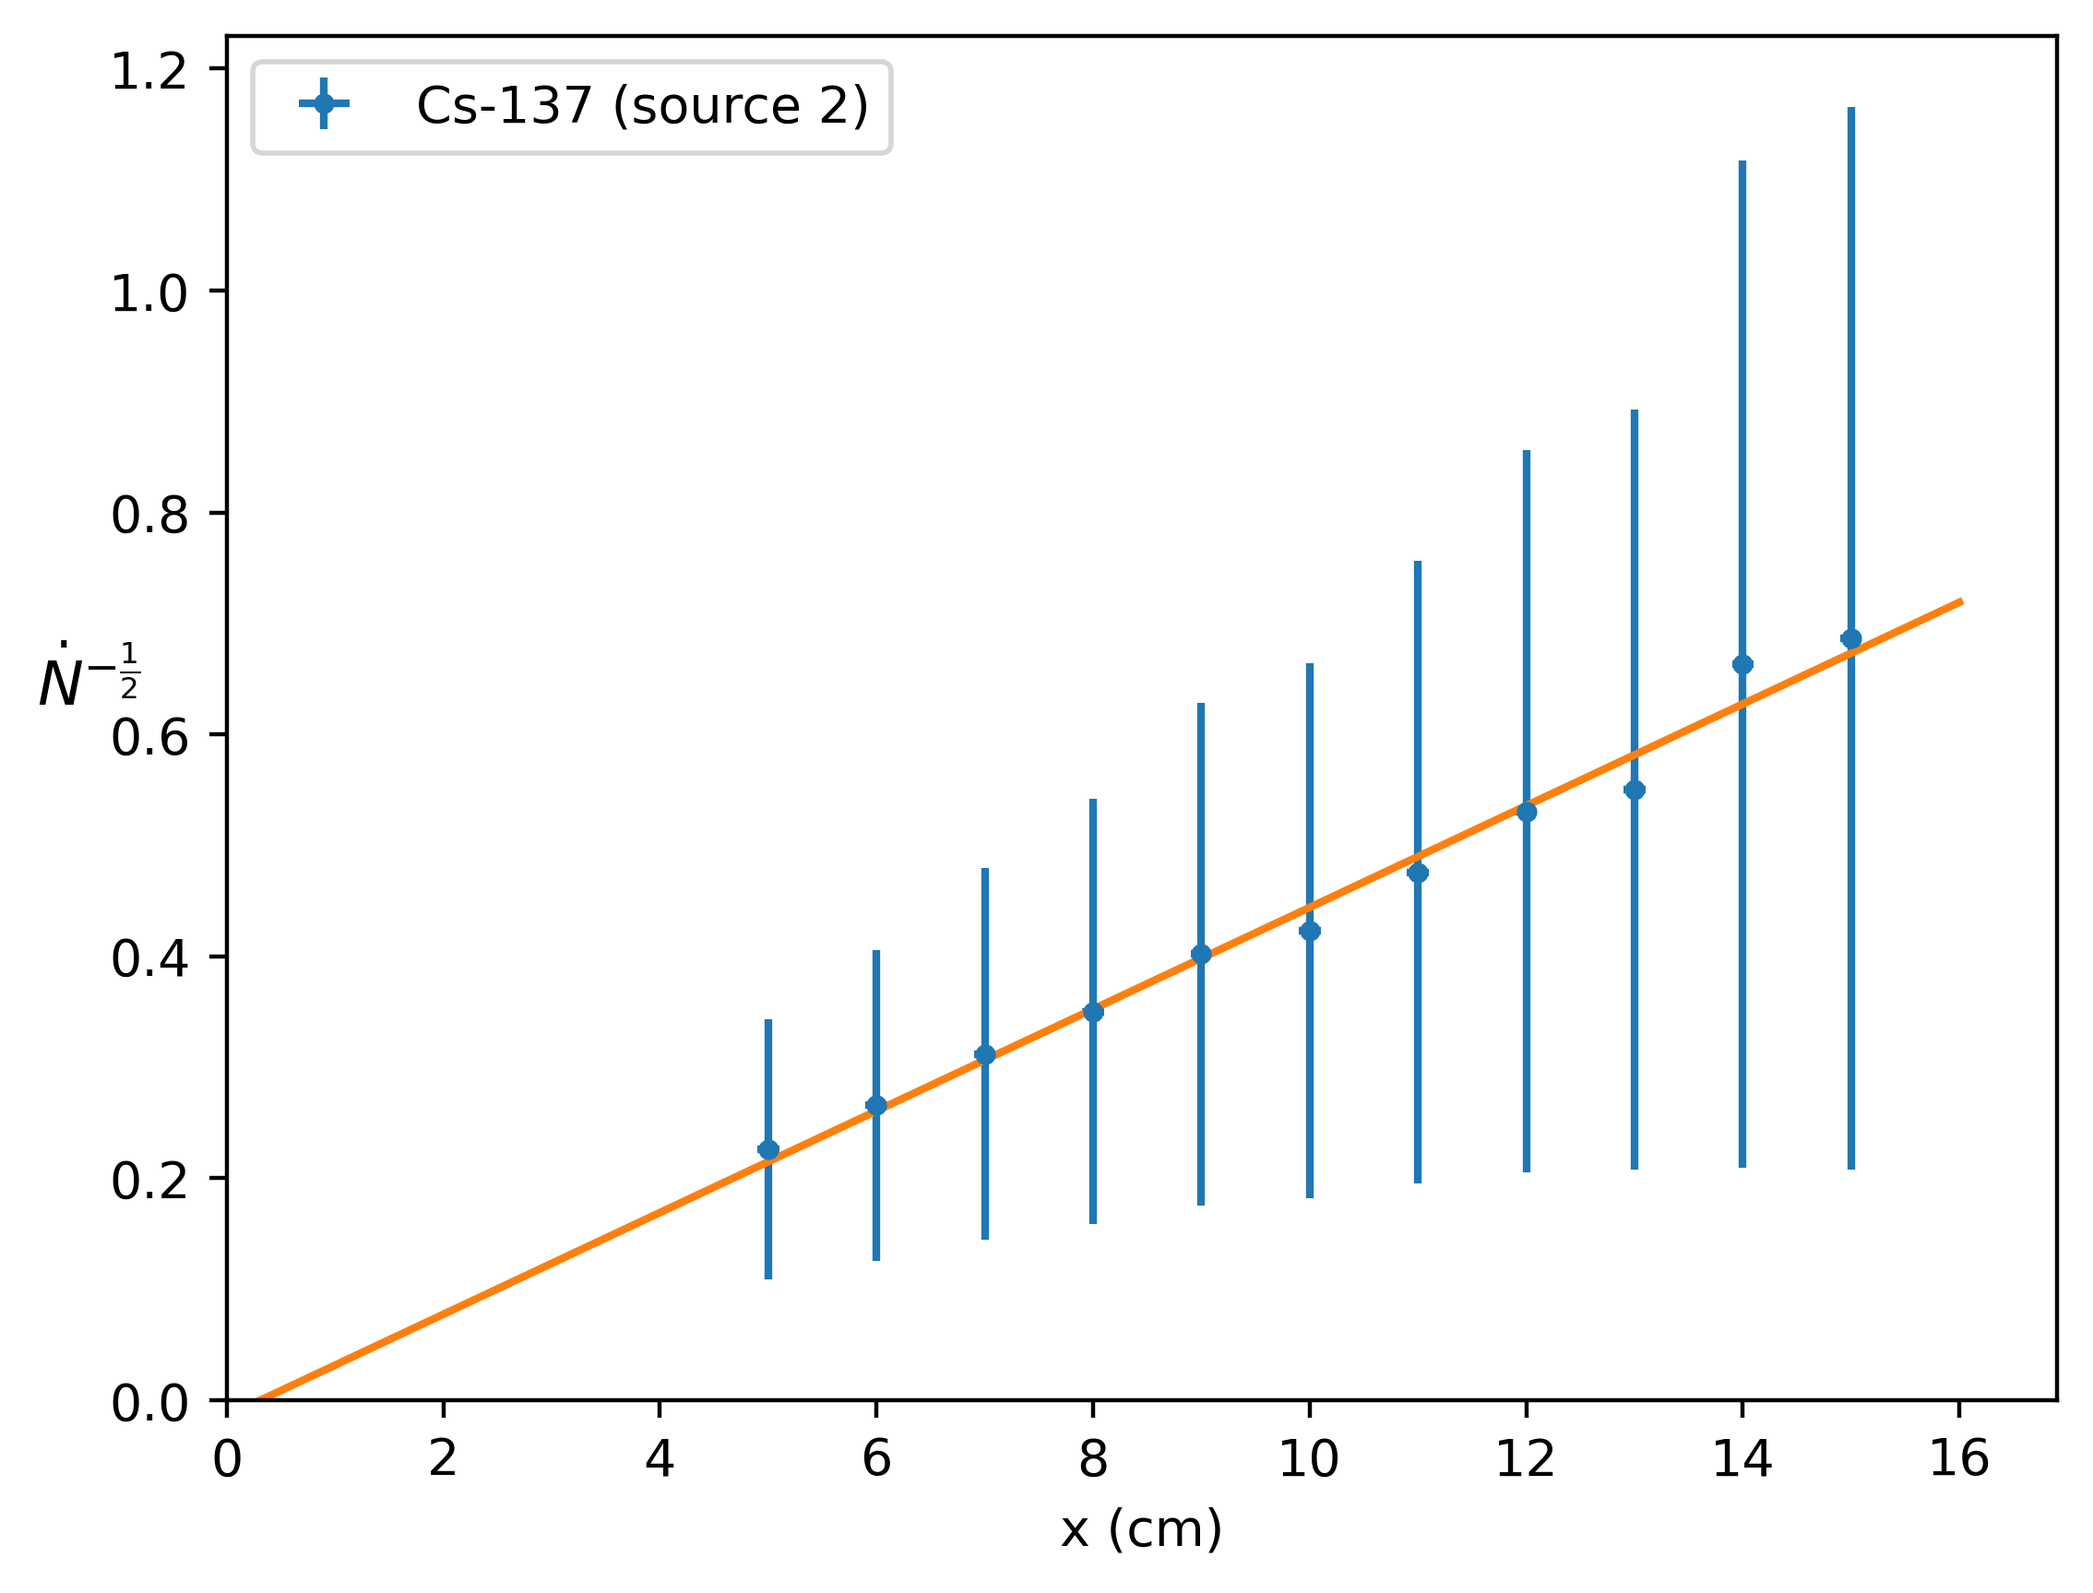
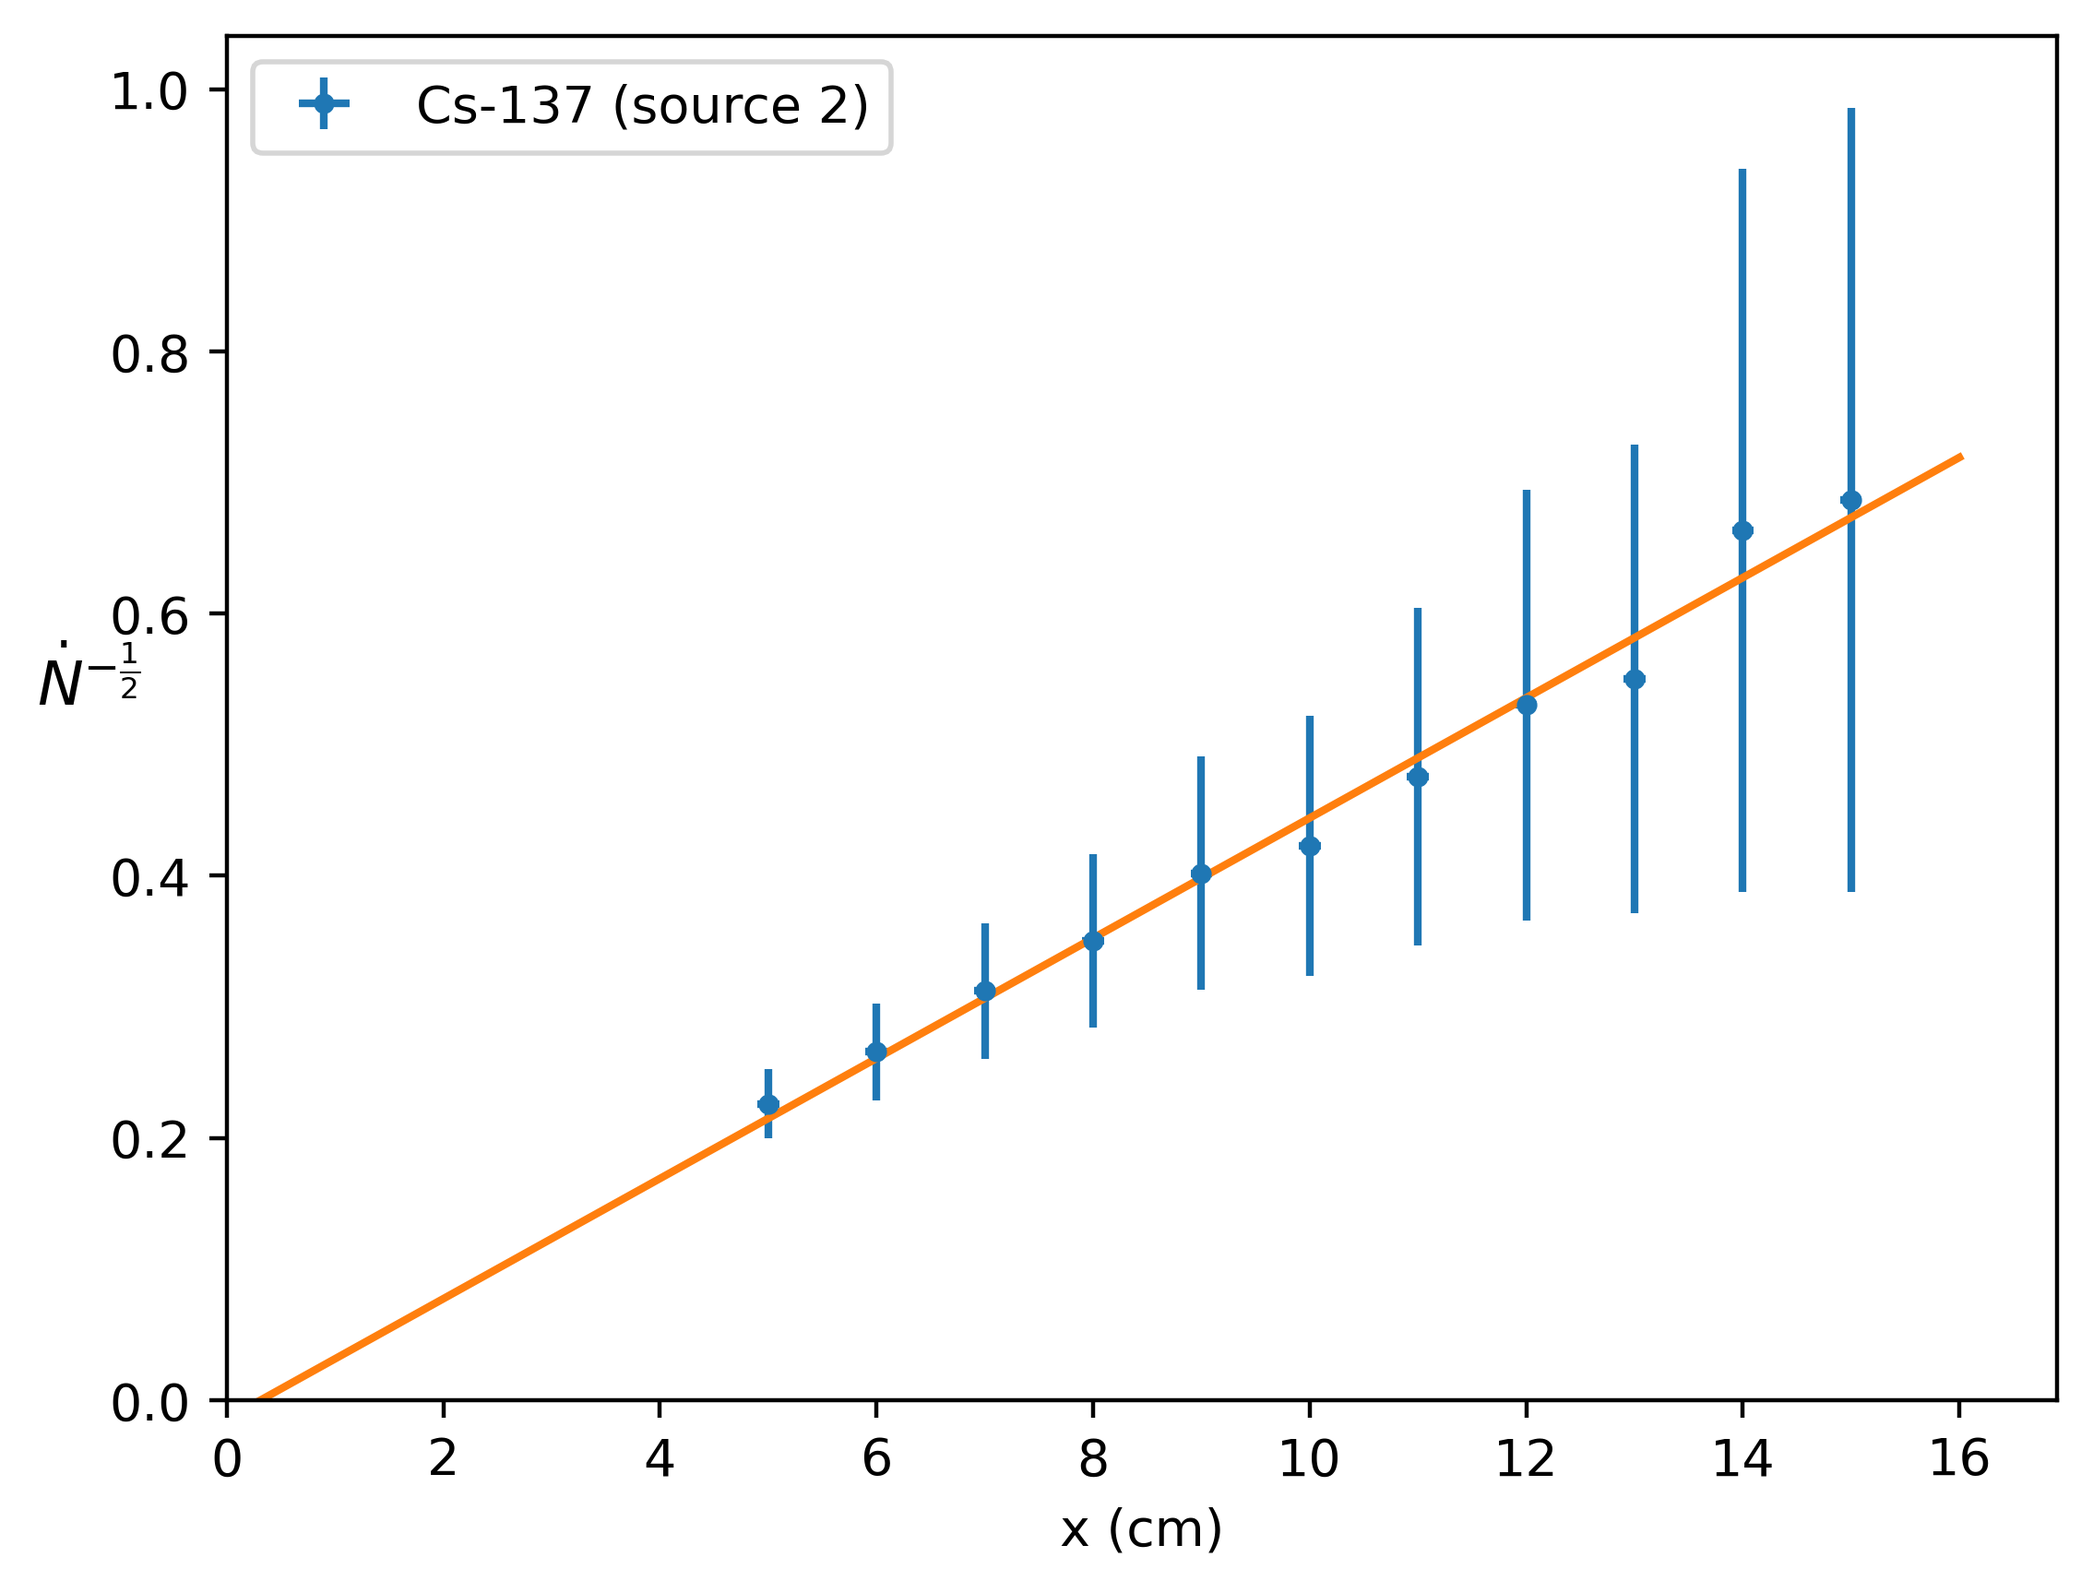
fixed analysis.py (script for dose rate stuff.) added attenuation.py for attenuation measurements

diff --git a/analysis.py b/analysis.py
@@ -1,0 +1,240 @@
+'''
+Scripts for analysis of Dosimetry experiment data
+'''
+from astropy.io import ascii
+import numpy as np
+import matplotlib.pyplot as plt
+import pandas as pd
+import scipy.signal
+from scipy import optimize
+from scipy.optimize import curve_fit
+import astropy.constants as const
+
+distance_measurements = pd.read_csv('data/Distance_measurements.csv')[:-2]
+distance=(distance_measurements.to_numpy()[:,0]).astype(np.float64)
+dx=0.1
+Cs_x_counts=(distance_measurements.to_numpy()[:,1]).astype(np.float64)
+Co_x_counts=(distance_measurements.to_numpy()[:,2]).astype(np.float64)
+Cs2_x_counts=(distance_measurements.to_numpy()[:,3]).astype(np.float64)
+Na_x_counts=(distance_measurements.to_numpy()[:,4]).astype(np.float64)
+
+neutron_activity = pd.read_csv('data/Neutron_Activity.csv')[:-3]
+shielding_Al = pd.read_csv('data/Shielding.csv')[:-7]
+shielding_Pb = pd.read_csv('data/Shielding.csv')[8:]
+background_time=60*60 + 60*14 +7 #1hr 14 mins and 7 seconds in seconds. Time the background radiation is measured for
+background_N=3311
+background_per_minute=(background_N/background_time)*60
+Neutron_offset_t=103  #offset for source to detector time for neutron activity experiment
+
+'''
+shielding measurements to array
+'''
+al_shielding=(shielding_Al.to_numpy()[1:,0]).astype(np.float64)
+al_shield_counts=(shielding_Al.to_numpy()[1:,1]).astype(np.float64)
+pb_shielding=(shielding_Pb.to_numpy()[1:,0]).astype(np.float64)
+pb_shield_counts=(shielding_Pb.to_numpy()[1:,1]).astype(np.float64)
+
+'''
+Neutron activity measurements to arrays
+'''
+neutron_N=(neutron_activity.to_numpy()[:,0]).astype(np.float64)
+neutron_tf=(neutron_activity.to_numpy()[:,1]).astype(np.float64)
+neutron_dt=(neutron_activity.to_numpy()[:,2]).astype(np.float64)
+
+'''
+Dose constants in units of J m^2 kg^-1
+'''
+Cs_DC=2.359e-12
+Co_DC=8.928e-12
+Na_DC=4.544e-12
+
+#Function to take N counts (background included), measured for t seconds and return Ndot ^-1/2 and error, and Ndot and error.
+
+def calculate(N,t):
+    B=background_N                                  #measured background counts
+    #print('B',B)
+    bt=background_time                              #time measuring background in s
+    #print('bt',bt)
+    N_s=N/t                                         #count rate
+    #print('N_S',N_s)
+    dt=1/t                                          #error of 1s in measured time.
+    #print('dt',dt)
+    N_s_err=np.sqrt(N_s+dt**2)                   #err in count rate
+    #print('N_s_err',N_s_err)
+    B_s=B/bt                                        #background count rate
+    #print('B_s',B_s)
+    dbt=1/bt                                        # error of 1s in measured time
+    #print('dbt',dbt)
+    B_s_err=np.sqrt(B_s**2+dbt**2)                  #err in background count rate
+    #print('B_s_err',B_s_err)
+    N_mod=N_s-B_s                                   #count rate with background subtracted
+    #print('N_mod',N_mod)
+    N_mod_err=np.sqrt((N_s_err)**2 + (B_s_err)**2)  #error in count rate with background subtracted
+    #print('N_mod_err',N_mod_err)
+    N_dot_exp=N_mod**(-0.5)                  #raising count rate with subtracted background to power of -1/2
+    #print('N_dot_exp',N_dot_exp)
+    err_Ndot_exp=0.5*(N_mod**(-3/2))*N_mod_err      #error in Ndot ^-1/2 --> error in counts, time, background counts, background time and propagation via formulas all accounted for.
+    #print('err_Ndot_exp',err_Ndot_exp)
+    return N_dot_exp, err_Ndot_exp, N_mod, N_mod_err
+
+#print(calculate(Cs_x_counts[0],60))
+
+def cal_factor(D_dot,err_D_dot,N_dot,err_N_dot):
+    epsilon=D_dot/N_dot
+    sqrt=np.sqrt((err_N_dot/N_dot)**2 + (err_D_dot/D_dot)**2)
+    err_epsilon=epsilon*np.sqrt((err_N_dot/N_dot)**2 + (err_D_dot/D_dot)**2)
+    return epsilon, err_epsilon, sqrt
+
+def dose_rate(Dose_const,A,dA,x,x0,dx,dx0):
+    d=x-x0
+    dd=np.sqrt((dx**2)+(dx0**2))
+    y=(Dose_const*A)/(d**2)
+    y_err=np.sqrt( (((Dose_const*dA)/(d**2))**2) +(((-2*Dose_const*A*dd)/(d**3))**2) )
+    return y, y_err
+
+def linear(x,a,c):
+    y=c+a*x
+    return y
+
+'''
+#calculating x0
+'''
+distance_2=np.linspace(-2,16,300)
+popt_Cs, pcov_Cs = curve_fit(linear, distance, calculate(Cs_x_counts,60)[0])
+popt_Co, pcov_Co = curve_fit(linear, distance, calculate(Co_x_counts,60)[0])
+popt_Cs2, pcov_Cs2 = curve_fit(linear, distance, calculate(Cs2_x_counts,60)[0])
+popt_Na, pcov_Na = curve_fit(linear, distance, calculate(Na_x_counts,60)[0])
+
+Cs_fit_y=popt_Cs[0]*distance_2 + popt_Cs[1]
+i=0
+while i < len(distance_2):
+    if Cs_fit_y[i] < 1e-3 and Cs_fit_y[i] > -1e-3:
+        Cs_x0=distance_2[i]
+        Cs_y_x0=Cs_fit_y[i]
+        i=i+1
+    else:
+        i=i+1
+
+Co_fit_y=popt_Co[0]*distance_2 + popt_Co[1]
+
+i=0
+while i < len(distance_2):
+    if Co_fit_y[i] < 1e-2 and Co_fit_y[i] > -1e-2:
+        Co_x0=distance_2[i]
+        Co_y_x0=Co_fit_y[i]
+        i=i+1
+    else:
+        i=i+1
+
+Cs2_fit_y=popt_Cs2[0]*distance_2 + popt_Cs2[1]
+
+i=0
+while i < len(distance_2):
+    if Cs2_fit_y[i] < 1e-2 and Cs2_fit_y[i] > -1e-2:
+        Cs2_x0=distance_2[i]
+        Cs2_y_x0=Cs2_fit_y[i]
+        i=i+1
+    else:
+        i=i+1
+
+Na_fit_y=popt_Na[0]*distance_2 + popt_Na[1]
+
+i=0
+while i < len(distance_2):
+    if Na_fit_y[i] < 1e-3 and Na_fit_y[i] > -1e-3:
+        Na_x0=distance_2[i]
+        Na_y_x0=Na_fit_y[i]
+        i=i+1
+    else:
+        i=i+1
+
+#print(calculate(Cs_x_counts[0],60))
+'''
+Calculating dose rates. use largest distance-x0 and count rate as activity.
+'''
+#Cs (first source)
+D_dot_Cs=dose_rate(Cs_DC,calculate(Cs_x_counts[0],60)[2],calculate(Cs_x_counts[0],60)[3],distance[0],Cs_x0,0.1,0.1)
+print(D_dot_Cs[0],'p/m',D_dot_Cs[1],'Dose rate of Cs-137 in W/kg')
+
+#Calibration factor with error calculated using strongest Cs source
+cal_fac_Cs=cal_factor(D_dot_Cs[0],D_dot_Cs[1],calculate(Cs_x_counts[0],60)[2],calculate(Cs_x_counts[0],60)[3])
+print("epsilon=",cal_fac_Cs[0],"p/m",cal_fac_Cs[1],"sqrt:",cal_fac_Cs[2])
+'''
+#plots
+'''
+'''
+#Counts for 1 second vs x
+'''
+plt.figure(0)
+#plt.scatter(distance,Cs_x_counts)
+plt.errorbar(distance,calculate(Cs_x_counts,60)[2],calculate(Cs_x_counts,60)[3],dx,'.',label='Cs-137')
+plt.xlabel('distance (cm)')
+plt.ylabel('$\dot N$',rotation='horizontal',fontsize='large')
+plt.legend()
+plt.savefig('plots/Cs_dist_1s.png',dpi=400,bbox_inches='tight')
+
+plt.figure(1)
+#plt.scatter(distance,Co_x_counts)
+plt.errorbar(distance,calculate(Co_x_counts,60)[2],calculate(Co_x_counts,60)[3],dx,'.',label='Co')
+plt.xlabel('distance (cm)')
+plt.ylabel('$\dot N$',rotation='horizontal',fontsize='large')
+plt.legend()
+plt.savefig('plots/Co_dist_1s.png',dpi=400,bbox_inches='tight')
+
+plt.figure(2)
+#plt.scatter(distance,Cs2_x_counts)
+plt.errorbar(distance,calculate(Cs2_x_counts,60)[2],calculate(Cs2_x_counts,60)[3],dx,'.',label='Cs2')
+plt.xlabel('distance (cm)')
+plt.ylabel('$\dot N$',rotation='horizontal',fontsize='large')
+plt.legend()
+plt.savefig('plots/Cs2_dist_1s.png',dpi=400,bbox_inches='tight')
+
+plt.figure(3)
+#plt.scatter(distance,Na_x_counts)
+plt.errorbar(distance,calculate(Na_x_counts,60)[2],calculate(Na_x_counts,60)[3],dx,'.',label='Na')
+plt.xlabel('distance (cm)')
+plt.ylabel('$\dot N$',rotation='horizontal',fontsize='large')
+plt.legend()
+plt.savefig('plots/Na_dist_1s.png',dpi=400,bbox_inches='tight')
+
+
+plt.figure(4)
+plt.errorbar(distance,calculate(Cs_x_counts,60)[0],calculate(Cs_x_counts,60)[1],dx,'.',label='Cs-137')
+plt.plot(distance_2,Cs_fit_y)
+plt.xlabel('x (cm)')
+plt.ylabel(r'$\dot N^{-\frac{1}{2}}$',fontsize='large',rotation='horizontal')
+plt.legend(loc='upper left')
+plt.ylim(0)
+plt.xlim(-1.5)
+plt.savefig('plots/Cs_dist_mod.png',dpi=400,bbox_inches='tight')
+
+plt.figure(5)
+plt.errorbar(distance,calculate(Co_x_counts,60)[0],calculate(Co_x_counts,60)[1],dx,'.',label='Co-60')
+plt.plot(distance_2,Co_fit_y)
+plt.xlabel('x (cm)')
+plt.ylabel(r'$\dot N^{-\frac{1}{2}}$',fontsize='large',rotation='horizontal')
+plt.ylim(0)
+plt.xlim(-2)
+plt.legend(loc='upper left')
+plt.savefig('plots/Co_dist_mod.png',dpi=400,bbox_inches='tight')
+
+plt.figure(6)
+plt.errorbar(distance,calculate(Cs2_x_counts,60)[0],calculate(Cs2_x_counts,60)[1],dx,'.',label='Cs-137 (source 2)')
+plt.plot(distance_2,Cs2_fit_y)
+plt.xlabel('x (cm)')
+plt.ylabel(r'$\dot N^{-\frac{1}{2}}$',fontsize='large',rotation='horizontal')
+plt.legend(loc='upper left')
+plt.ylim(0)
+plt.xlim(0)
+plt.savefig('plots/Cs2_dist_mod.png',dpi=400,bbox_inches='tight')
+
+plt.figure(7)
+plt.errorbar(distance,calculate(Na_x_counts,60)[0],calculate(Na_x_counts,60)[1],dx,'.',label='Na-22')
+plt.plot(distance_2,Na_fit_y)
+plt.xlabel('x (cm)')
+plt.ylabel(r'$\dot N^{-\frac{1}{2}}$',fontsize='large',rotation='horizontal')
+plt.legend(loc='upper left')
+plt.ylim(0)
+plt.xlim(0)
+plt.savefig('plots/Na_dist_mod.png',dpi=400,bbox_inches='tight')
+plt.show()

diff --git a/dosimetry.py b/dosimetry.py
@@ -76,7 +76,7 @@ def calculate(N,t):
     N_mod_err=np.sqrt((N_s_err)**2 + (B_s_err)**2)  #error in count rate with background subtracted
     N_dot_exp=N_mod**(-0.5)                  #raising count rate with subtracted background to power of -1/2
     err_Ndot_exp=0.5*(N_mod**(-3/2))*N_mod_err      #error in Ndot ^-1/2 --> error in counts, time, background counts, background time and propagation via formulas all accounted for.
-    return N_dot_exp, err_Ndot_exp, N_s, N_s_err
+    return N_dot_exp, err_Ndot_exp, N_mod, N_mod_err
 
 def linear(x,a,c):
     y=c+a*x
@@ -89,15 +89,15 @@ def y_fit_error(a,da,x,dx,c,dc):
 
 def cal_factor(D_dot,err_D_dot,N_dot,err_N_dot):
     epsilon=D_dot/N_dot
-    err_epsilon=np.sqrt(((N_dot)**2 * (err_D_dot)**2)+((D_dot)**2 * (err_N_dot)**2))
-    return epsilon, err_epsilon
+    sqrt=np.sqrt((err_N_dot/N_dot)**2 + (err_D_dot/D_dot)**2)
+    err_epsilon=epsilon*np.sqrt((err_N_dot/N_dot)**2 + (err_D_dot/D_dot)**2)
+    return epsilon, err_epsilon, sqrt
 
-def dose_rate(Dose_const,A,x,x0,dx,dx0):
+def dose_rate(Dose_const,A,dA,x,x0,dx,dx0):
     d=x-x0
-    dd=np.sqrt(dx**2+dx0**2)
-    dA=np.sqrt(A)
+    dd=np.sqrt((dx**2)+(dx0**2))
     y=(Dose_const*A)/(d**2)
-    y_err=np.sqrt(((Dose_const/(x**2))*dA)**2+((2*Dose_const*A)/(x**3))**2)
+    y_err=np.sqrt( (((Dose_const*dA)/(d**2))**2) +(((-2*Dose_const*A*dd)/(d**3))**2) )
     return y, y_err
 
 '''
@@ -270,7 +270,41 @@ print(x0s)
 Calculating dose rates. use largest distance-x0 and count rate as activity.
 '''
 #Cs (first source)
-D_dot_Cs=dose_rate(Cs_DC,Cs_x_N[0],distance[0],Cs_x0,0.1,0.1)
+D_dot_Cs=dose_rate(Cs_DC,calculate(Cs_x_counts[0],60)[2],calculate(Cs_x_counts[0],60)[3],distance[0],Cs_x0,0.1,0.1)
 print(D_dot_Cs[0],'p/m',D_dot_Cs[1],'Dose rate of Cs-137 in W/kg')
 
+#Calibration factor with error calculated using strongest Cs source
+cal_fac_Cs=cal_factor(D_dot_Cs[0],D_dot_Cs[1],calculate(Cs_x_counts[0],60)[2],calculate(Cs_x_counts[0],60)[3])
+print("epsilon=",cal_fac_Cs[0],"p/m",cal_fac_Cs[1],"sqrt:",cal_fac_Cs[2])
+print('dist',distance)
 plt.show()
+
+'''
+version of calculate for debugging
+def calculate(N,t):
+    B=background_N                                  #measured background counts
+    print('B',B)
+    bt=background_time                              #time measuring background in s
+    print('bt',bt)
+    N_s=N/t                                         #count rate
+    print('N_S',N_s)
+    dt=1/t                                          #error of 1s in measured time.
+    print('dt',dt)
+    N_s_err=np.sqrt(N_s+dt**2)                   #err in count rate
+    print('N_s_err',N_s_err)
+    B_s=B/bt                                        #background count rate
+    print('B_s',B_s)
+    dbt=1/bt                                        # error of 1s in measured time
+    print('dbt',dbt)
+    B_s_err=np.sqrt(B_s**2+dbt**2)                  #err in background count rate
+    print('B_s_err',B_s_err)
+    N_mod=N_s-B_s                                   #count rate with background subtracted
+    print('N_mod',N_mod)
+    N_mod_err=np.sqrt((N_s_err)**2 + (B_s_err)**2)  #error in count rate with background subtracted
+    print('N_mod_err',N_mod_err)
+    N_dot_exp=N_mod**(-0.5)                  #raising count rate with subtracted background to power of -1/2
+    print('N_dot_exp',N_dot_exp)
+    err_Ndot_exp=0.5*(N_mod**(-3/2))*N_mod_err      #error in Ndot ^-1/2 --> error in counts, time, background counts, background time and propagation via formulas all accounted for.
+    print('err_Ndot_exp',err_Ndot_exp)
+    return N_dot_exp, err_Ndot_exp, N_mod, N_mod_err
+    '''

diff --git a/attenuation.py b/attenuation.py
@@ -1,0 +1,46 @@
+from astropy.io import ascii
+import numpy as np
+import matplotlib.pyplot as plt
+import pandas as pd
+import scipy.signal
+from scipy import optimize
+from scipy.optimize import curve_fit
+import astropy.constants as const
+
+distance_measurements = pd.read_csv('data/Distance_measurements.csv')[:-2]
+distance=(distance_measurements.to_numpy()[:,0]).astype(np.float64)
+dx=0.1
+Cs_x_counts=(distance_measurements.to_numpy()[:,1]).astype(np.float64)
+Co_x_counts=(distance_measurements.to_numpy()[:,2]).astype(np.float64)
+Cs2_x_counts=(distance_measurements.to_numpy()[:,3]).astype(np.float64)
+Na_x_counts=(distance_measurements.to_numpy()[:,4]).astype(np.float64)
+
+neutron_activity = pd.read_csv('data/Neutron_Activity.csv')[:-3]
+shielding_Al = pd.read_csv('data/Shielding.csv')[:-7]
+shielding_Pb = pd.read_csv('data/Shielding.csv')[8:]
+background_time=60*60 + 60*14 +7 #1hr 14 mins and 7 seconds in seconds. Time the background radiation is measured for
+background_N=3311
+background_per_minute=(background_N/background_time)*60
+Neutron_offset_t=103  #offset for source to detector time for neutron activity experiment
+
+'''
+shielding measurements to array
+'''
+al_shielding=(shielding_Al.to_numpy()[1:,0]).astype(np.float64)
+al_shield_counts=(shielding_Al.to_numpy()[1:,1]).astype(np.float64)
+pb_shielding=(shielding_Pb.to_numpy()[1:,0]).astype(np.float64)
+pb_shield_counts=(shielding_Pb.to_numpy()[1:,1]).astype(np.float64)
+
+'''
+Neutron activity measurements to arrays
+'''
+neutron_N=(neutron_activity.to_numpy()[:,0]).astype(np.float64)
+neutron_tf=(neutron_activity.to_numpy()[:,1]).astype(np.float64)
+neutron_dt=(neutron_activity.to_numpy()[:,2]).astype(np.float64)
+
+'''
+Dose constants in units of J m^2 kg^-1
+'''
+Cs_DC=2.359e-12
+Co_DC=8.928e-12
+Na_DC=4.544e-12
